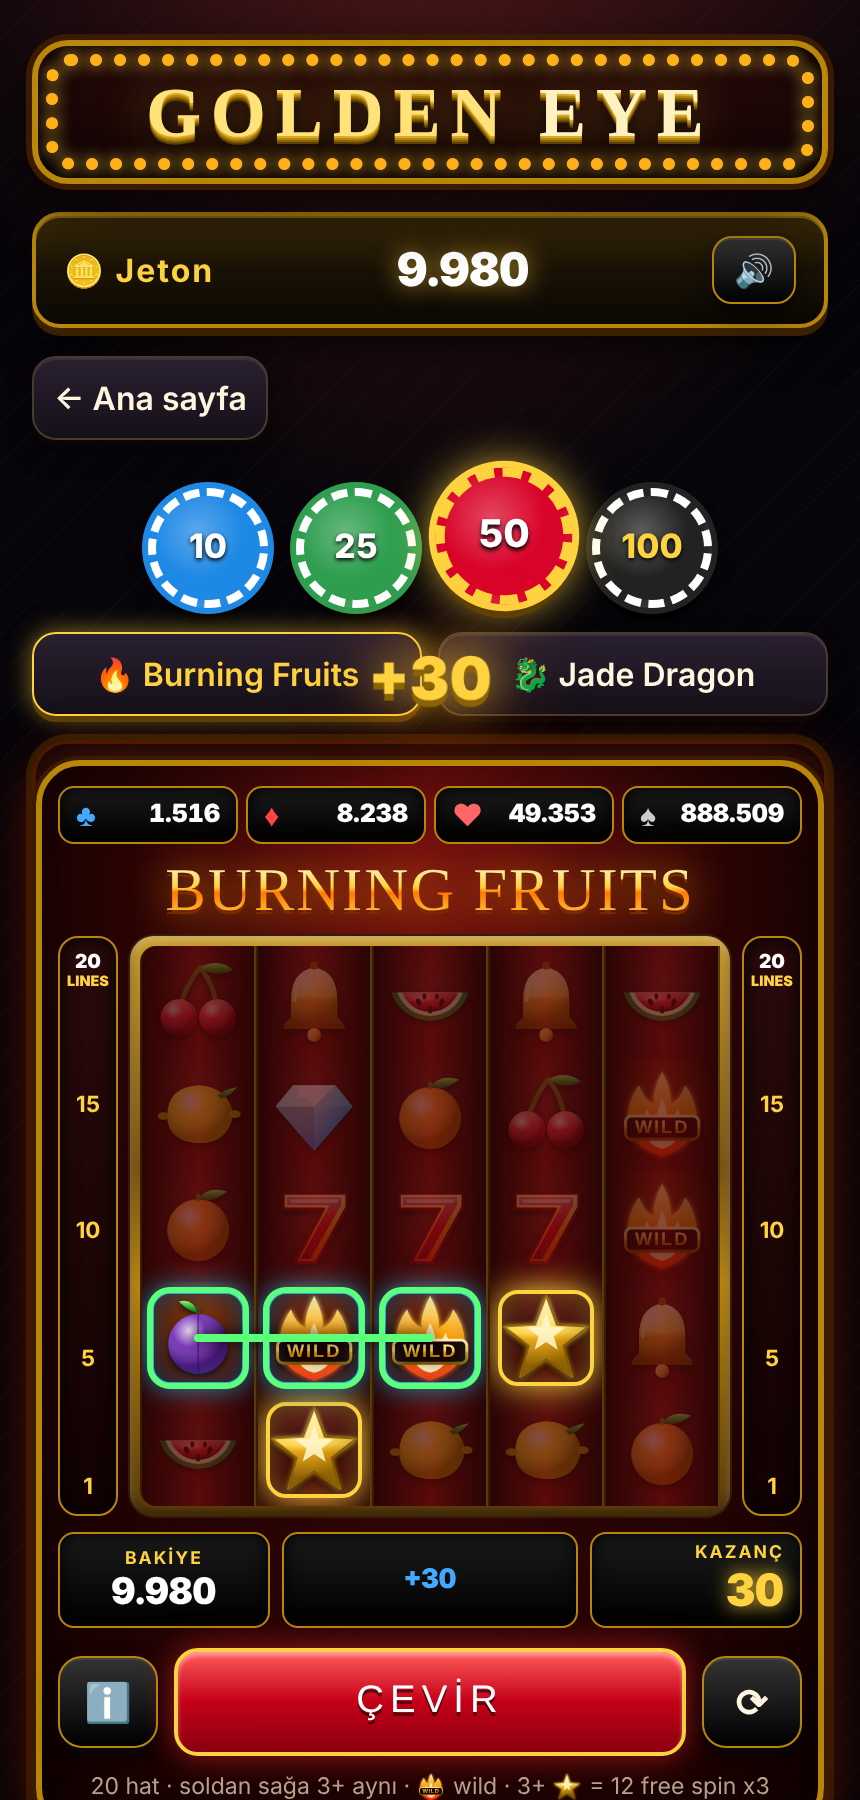
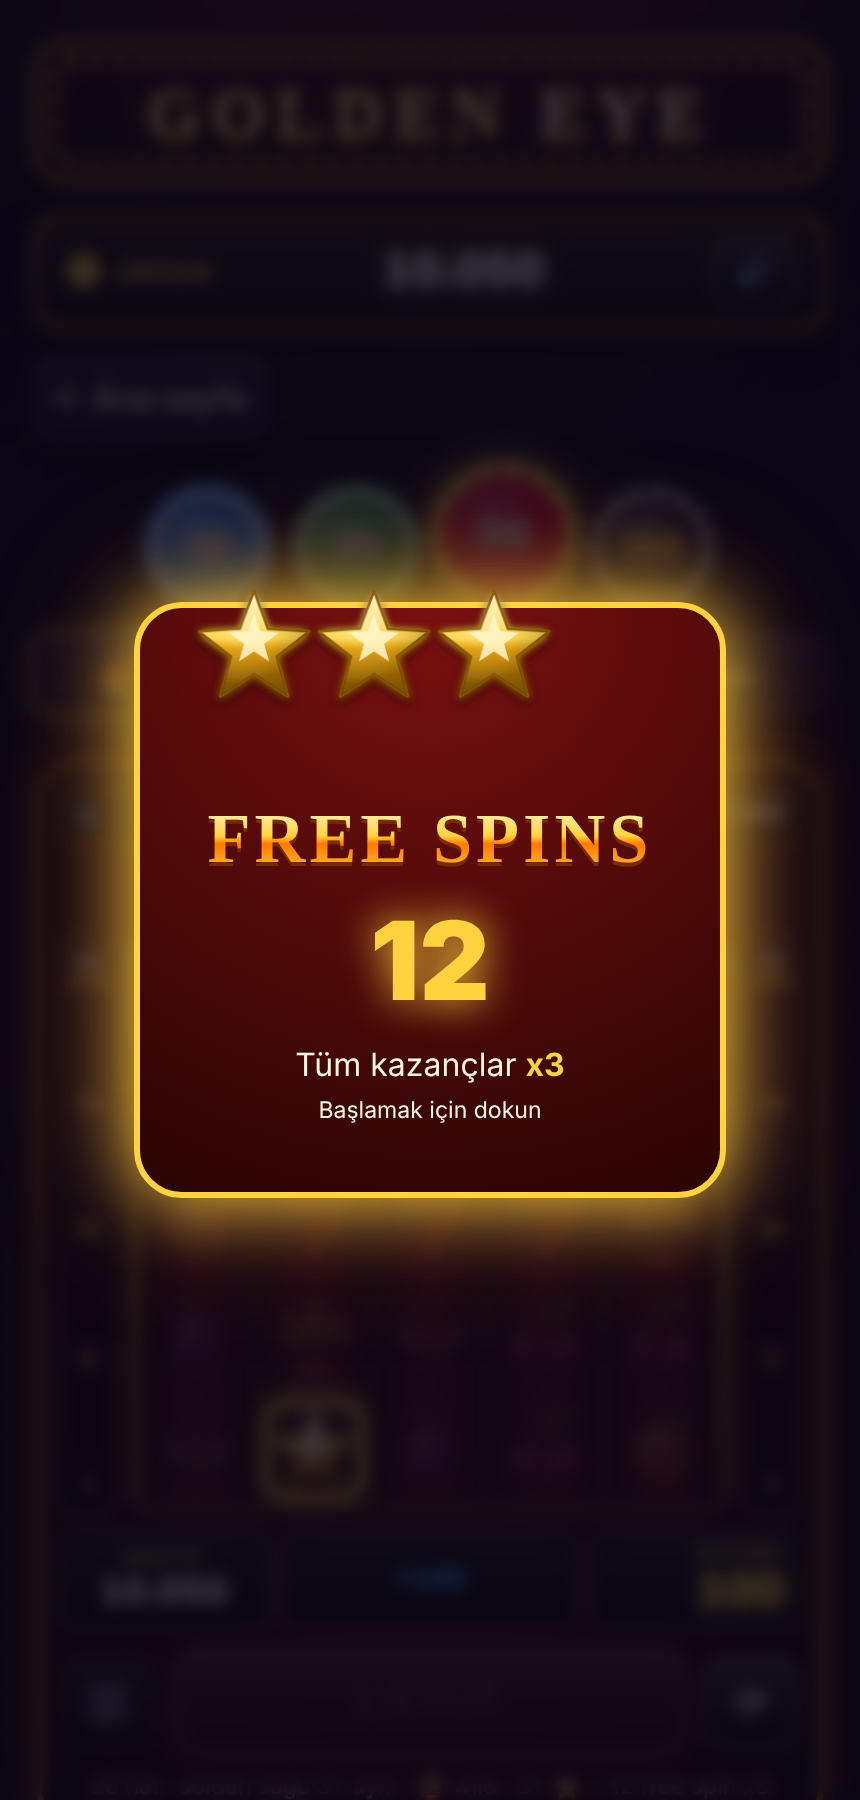
ElevenLabs sesli anons: Vercel serverless TTS proxy + oyun entegrasyonu
Claude-Session: https://claude.ai/code/session_01RjFD3RqoLc5tJcMRdDX51s

diff --git a/index.html b/index.html
@@ -471,6 +471,10 @@ big(){[523,659,784,1047,784,1047,1319,1568].forEach((f,i)=>{tone(f,i*.12,.3,'tri
 fs(){[392,523,659,784,1047,1319].forEach((f,i)=>{tone(f,i*.1,.5,'triangle',.25);tone(f*1.5,i*.1+.05,.4,'sine',.1)});noise(.6,.5,.12,3000)},
 lose(){tone(200,0,.18,'sine',.08,150)}};
 
+/* ===== KONUŞAN SES (ElevenLabs klipleri, voice/*.mp3) ===== */
+const VOICE={};['welcome','luck','wild','nice','great','bigwin','megawin','epicwin','freespins','bonus','jackpot'].forEach(k=>{const a=new Audio('api/tts?k='+k);a.preload='auto';a.volume=.9;a.onerror=()=>{VOICE[k]=null};VOICE[k]=a});
+let lastSay=0;function say(k,delay){if(muted)return;const a=VOICE[k];if(!a)return;const go=()=>{try{a.currentTime=0;a.play().catch(()=>{})}catch(e){}};if(delay)setTimeout(go,delay);else go()}
+let welcomed=false;
 /* ===== SLOT MOTORU ===== */
 /* Golden Eye slot engine — pure math, no DOM. Works in browser and node. */
 const SLOT_LINES=[
@@ -540,12 +544,13 @@ autoBtn.onclick=()=>{S.click();auto=!auto;autoBtn.classList.toggle('on',auto);if
 async function spin(){
 if(busy&&!fsLeft)return;const free=fsLeft>0;
 if(!free){if(chips<bet){msg('Yetersiz jeton, bahsi düşür!');auto=false;autoBtn.classList.remove('on');return}setChips(chips-bet)}
-busy=true;btnsLock();msg('');clearFx();wb.textContent='';
+busy=true;btnsLock();msg('');clearFx();wb.textContent='';if(!free&&Math.random()<.12)say('luck');
 g=slotSpin(T,Math.random);
 cols.forEach(c=>{c.classList.remove('land');c.classList.add('spin')});
 let t=0,stopped=0,scSoFar=0,extra=0;const base=[700,950,1200,1450,1700];
 const iv=setInterval(()=>{t+=70;if(t%140<70)S.tick();for(let c=stopped;c<5;c++)cells[c].forEach(e=>e.innerHTML=ico(T.sym[rnd(T.sym.length)]));
 if(stopped<5&&t>=base[stopped]+extra){const c=stopped;cols[c].classList.remove('spin');cols[c].classList.add('land');paint(c);S.stop();
+if(g[c].includes(T.W)&&c<3&&Math.random()<.5)say('wild');
 const sc=g[c].filter(x=>x===T.S).length;if(sc){scSoFar+=sc;cells[c].forEach((e,r)=>{if(g[c][r]===T.S)e.classList.add('scat')});S.scat()}
 stopped++;
 if(stopped<5&&scSoFar>=2&&scSoFar<3&&!grid.classList.contains('antic')){grid.classList.add('antic');extra+=900;S.antic();const an=setInterval(()=>{if(stopped>=5||scSoFar>=3)clearInterval(an);else S.antic()},300)}
@@ -558,17 +563,19 @@ const all=new Set();r.wins.forEach(w=>w.cells.forEach(([c,rr])=>all.add(c+'-'+rr
 cells.forEach((col,c)=>col.forEach((e,rr)=>{if(all.has(c+'-'+rr)){e.classList.add(g[c][rr]===T.S?'scat':'win')}else e.classList.add('dim')}));
 drawLines(r.wins.map(w=>({cells:w.cells,line:w.line})).concat(r.scatWin?[{cells:r.scells,scat:true}]:[]));S.win(Math.min(6,2+Math.floor(r.total/bet)));
 const x=r.total/bet;if(x>=15)S.big();
+if(x>=100)say('epicwin',300);else if(x>=40)say('megawin',300);else if(x>=15)say('bigwin',300);else if(x>=5)say('great',200);else if(x>=2&&Math.random()<.6)say('nice',200);
 await countUp(r.total,x>=15?1800:700);
 if(x>=15)await overlay('<div class="ic">'+(x>=100?'👑':x>=40?'💥':'🎉')+'</div><h2>'+(x>=100?'EPİK KAZANÇ':x>=40?'MEGA KAZANÇ':'BÜYÜK KAZANÇ')+'</h2><div class="n">+'+fmt(r.total)+'</div><p>'+x.toFixed(1)+'x bahis</p>',2600);
 else if(r.total>0&&!free)celebrateSmall(r.total);
 startCycle(r)}else{wb.innerHTML='<em>İyi şanslar!</em>';if(!free)S.lose()}
 setChips(chips+r.total);
-if(r.fs){S.fs();if(free){fsLeft+=T.retrig;await overlay('<div class="ic">🎁</div><h2>+'+T.retrig+' FREE SPIN</h2><p>'+fsLeft+' spin kaldı</p>',2000)}
+if(r.fs){S.fs();say(free?'bonus':'freespins',400);if(free){fsLeft+=T.retrig;await overlay('<div class="ic">🎁</div><h2>+'+T.retrig+' FREE SPIN</h2><p>'+fsLeft+' spin kaldı</p>',2000)}
 else{fsLeft=T.fs;fsTotal=0;await overlay('<div class="ic">'+ico(T.sym[T.S],'big').repeat(Math.min(r.sc,5))+'</div><h2>FREE SPINS</h2><div class="n">'+T.fs+'</div><p>Tüm kazançlar <b style="color:var(--gold)">x'+T.fsMult+'</b></p><p class="tiny">Başlamak için dokun</p>',4000)}
 grid.classList.add('fsmode');fsbar.classList.remove('hide');fsbar.querySelector('.fsn').textContent=fsLeft;if(!free){await wait(400);spin();return}}
 if(free){fsTotal+=r.total;fsLeft--;fsbar.querySelector('.fsn').textContent=fsLeft;
 if(fsLeft>0){await wait(900);spin();return}
 await wait(600);grid.classList.remove('fsmode');fsbar.classList.add('hide');
+if(fsTotal/bet>=150)say('jackpot',200);
 await overlay('<div class="ic">🏁</div><h2>FREE SPIN BİTTİ</h2><div class="n">+'+fmt(fsTotal)+'</div><p>'+(fsTotal/bet).toFixed(1)+'x bahis</p>',3000);if(fsTotal>0)celebrate(fsTotal)}
 busy=false;btnsLock();setChips(chips);
 if(auto&&chips>=bet){await wait(500);if(auto&&!busy)spin()}else if(auto){auto=false;autoBtn.classList.remove('on')}}
@@ -581,7 +588,8 @@ drawLines([it.scat?{cells:it.cells,scat:true}:{cells:it.cells,line:it.line}]);wb
 setTimeout(()=>{show();cycle=setInterval(show,1100)},1200)}
 function celebrateSmall(a){const b=document.createElement('div');b.className='big';b.style.fontSize='1.6rem';b.textContent='+'+fmt(a);document.body.appendChild(b);setTimeout(()=>b.remove(),2000)}
 function btnsLock(){goBtn.disabled=busy;infoBtn.disabled=busy;autoBtn.disabled=busy&&fsLeft>0}
-goBtn.onclick=()=>{ac();S.click();spin()}}
+goBtn.onclick=()=>{ac();S.click();spin()}
+p.addEventListener('click',()=>{if(!welcomed){welcomed=true;say('welcome')}},{once:true})}
 makeSlot('slot',THEMES.slot);makeSlot('slot2',THEMES.slot2);
 
 /* RULET MASASI */

diff --git a/api/tts.js b/api/tts.js
@@ -1,0 +1,45 @@
+// Vercel serverless: ElevenLabs TTS proxy. Key never reaches the browser.
+// Env: ELEVENLABS_API_KEY (required), ELEVENLABS_VOICE_ID (optional)
+const PHRASES = {
+  welcome:   'Welcome to Golden Eye.',
+  luck:      'Good luck!',
+  wild:      'Wild!',
+  nice:      'Nice!',
+  great:     'Great!',
+  bigwin:    'Big win!',
+  megawin:   'Mega win!',
+  epicwin:   'Epic win!',
+  freespins: 'Free spins!',
+  bonus:     'Bonus!',
+  jackpot:   'Jackpot!'
+};
+const cache = new Map(); // warm-instance cache
+
+module.exports = async (req, res) => {
+  const k = String(req.query.k || '');
+  const text = PHRASES[k];
+  if (!text) return res.status(400).json({ error: 'unknown phrase' });
+  const key = process.env.ELEVENLABS_API_KEY;
+  if (!key) return res.status(500).json({ error: 'ELEVENLABS_API_KEY missing' });
+  const voice = process.env.ELEVENLABS_VOICE_ID || 'cgSgspJ2msm6clMCkdW9'; // Jessica
+
+  let buf = cache.get(k);
+  if (!buf) {
+    const r = await fetch(`https://api.elevenlabs.io/v1/text-to-speech/${voice}?output_format=mp3_44100_128`, {
+      method: 'POST',
+      headers: { 'xi-api-key': key, 'Content-Type': 'application/json', 'Accept': 'audio/mpeg' },
+      body: JSON.stringify({
+        text,
+        model_id: 'eleven_multilingual_v2',
+        voice_settings: { stability: 0.4, similarity_boost: 0.8, style: 0.6, use_speaker_boost: true }
+      })
+    });
+    if (!r.ok) return res.status(502).json({ error: 'elevenlabs ' + r.status, detail: await r.text() });
+    buf = Buffer.from(await r.arrayBuffer());
+    cache.set(k, buf);
+  }
+  res.setHeader('Content-Type', 'audio/mpeg');
+  // Vercel edge + browser cache: aynı cümle bir daha ElevenLabs'e gitmez
+  res.setHeader('Cache-Control', 'public, max-age=31536000, s-maxage=31536000, immutable');
+  res.status(200).send(buf);
+};

diff --git a/api/health.js b/api/health.js
@@ -1,0 +1,1 @@
+module.exports = (req, res) => res.status(200).json({ ok: true, key: !!process.env.ELEVENLABS_API_KEY });

diff --git a/README.md b/README.md
@@ -3,5 +3,14 @@
 Arkadaşlar arası eğlence oyunu. **Sanal jeton kullanılır, gerçek para yoktur.**
 
 - Slot (5x5, 20 hat, wild/scatter, free spin), Rulet, Blackjack
-- Tek dosya: `index.html` — açıp oynayabilirsin
-- Giriş PIN'i `index.html` içinde `const PIN='7777'` satırında, değiştirmek için düzenle
+- `index.html` — oyunun tamamı (tek dosya)
+- `api/tts.js` — ElevenLabs sesli anons proxy'si (Vercel serverless). Key sadece Vercel ortam değişkeninde durur.
+
+## Vercel kurulumu
+1. vercel.com → Add New → Project → bu repoyu import et → Deploy
+2. Project → Settings → Environment Variables:
+   - `ELEVENLABS_API_KEY` = ElevenLabs key'in
+   - `ELEVENLABS_VOICE_ID` = (isteğe bağlı) ses ID'si; boş bırakılırsa "Jessica"
+3. Redeploy. `https://<proje>.vercel.app/api/health` → `{"ok":true,"key":true}` görmelisin.
+
+Giriş PIN'i `index.html` içinde `const PIN='7777'`.
